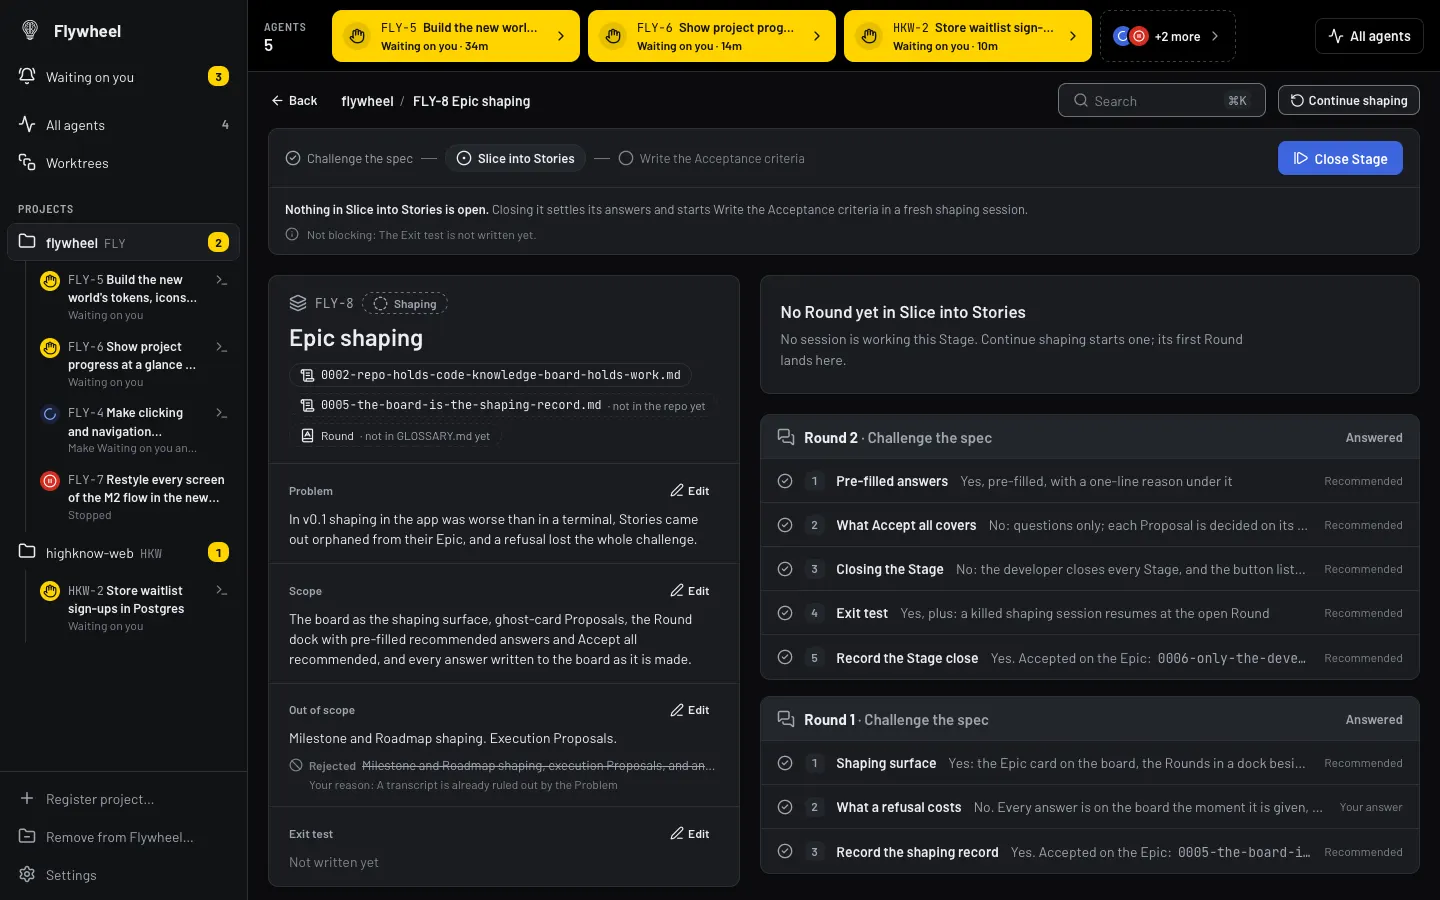
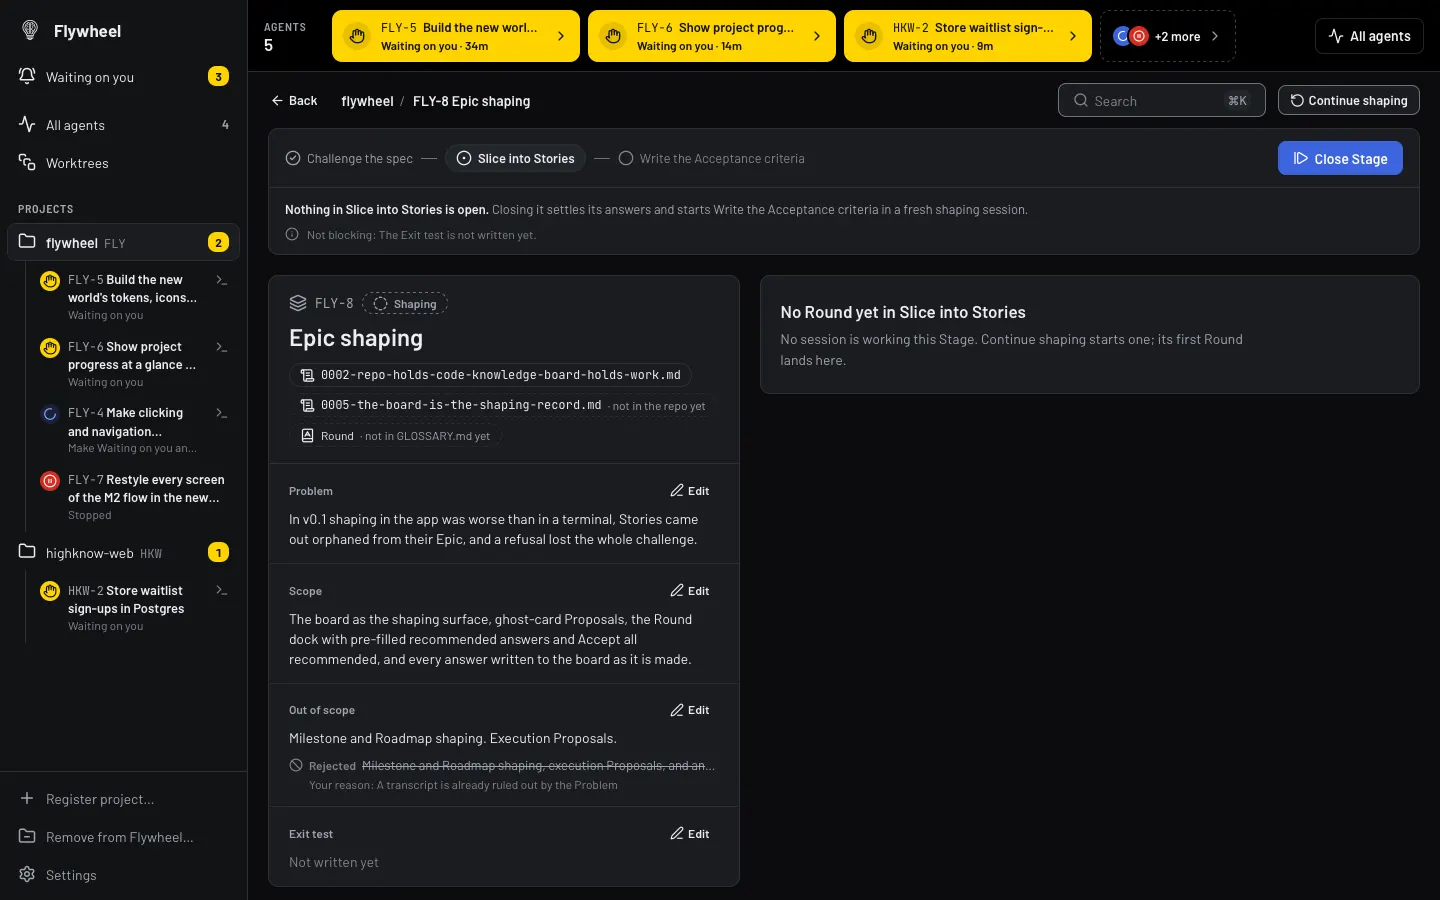
fix: the finish review's findings on the Story columns: brackets' feet reach the columns and their labels sit over the Story that waits, buttons in the heading say what is past either edge and scroll there, the first pending Proposal scrolled into view, the amended title kept whole, and a move names

diff --git a/packages/desktop/src/shaping/StoryColumns.tsx b/packages/desktop/src/shaping/StoryColumns.tsx
@@ -17,9 +17,9 @@
  * rejected spec change. A Dropped Story leaves the order. The columns sit on the floor rather than inside a card,
  * since each is a card of its own.
  */
-import { useId, useRef, useState, type FormEvent, type KeyboardEvent } from "react";
+import { useEffect, useId, useRef, useState, type FormEvent, type KeyboardEvent, type RefObject } from "react";
 import { useQueryClient } from "@tanstack/react-query";
-import { ArrowDown, ArrowRightLeft, Ban, Check, CircleDashed, CircleSlash, Columns3, PenLine, X } from "lucide-react";
+import { ArrowDown, ArrowRightLeft, Ban, Check, ChevronLeft, ChevronRight, CircleDashed, CircleSlash, Columns3, PenLine, X } from "lucide-react";
 import { proposalAccept, proposalAmend, proposalReject, type ProposalDto, type StoryDto } from "../adapters/tauri";
 import { StateBadge } from "../components/StateBadge";
 import { Button } from "@/components/ui/button";
@@ -184,6 +184,7 @@ export function StoryColumns({ stories, proposals, queryKey, className }: StoryC
                 .filter(Boolean)
                 .join(" · ")}
         </span>
+        {columns.length > 0 && <OverflowChips regionRef={regionRef} watch={columns.map((c) => c.id).join()} />}
       </header>
 
       {columns.length === 0 ? (
@@ -192,46 +193,52 @@ export function StoryColumns({ stories, proposals, queryKey, className }: StoryC
           accept, amend or reject.
         </p>
       ) : (
-        <div
-          ref={regionRef}
-          role="region"
-          aria-labelledby={headingId}
-          tabIndex={-1}
-          className="-mx-1 min-w-0 overflow-x-auto px-1 pt-1 pb-3 outline-none"
-        >
-          <div className="flex w-max flex-col gap-1.5">
-            {constraints.length > 0 && (
-              <ul aria-label="Runs-after constraints" className="m-0 grid list-none gap-x-3 gap-y-1 p-0" style={grid}>
-                {constraints.map((c) => (
-                  <Bracket key={c.key} constraint={c} />
-                ))}
-              </ul>
-            )}
-            <ol aria-label="Stories in execution order" className="m-0 grid list-none items-start gap-x-3 p-0" style={grid}>
-              {columns.map((column, index) =>
-                column.kind === "story" ? (
-                  <StoryColumn
-                    key={column.id}
-                    number={index + 1}
-                    story={column.story}
-                    columns={columns}
-                    proposals={pending.filter((p) => p.targetId === column.id && (p.verb === "reorder" || p.verb === "retire"))}
-                    queryKey={queryKey}
-                    onSettled={settle}
-                  />
-                ) : (
-                  <GhostColumn
-                    key={column.id}
-                    number={index + 1}
-                    proposal={column.proposal}
-                    draft={column.draft}
-                    runsAfter={constraints.find((c) => c.key === column.id)?.fromName ?? null}
-                    queryKey={queryKey}
-                    onSettled={settle}
-                  />
-                ),
+        <div className="relative min-w-0">
+          <div
+            ref={regionRef}
+            role="region"
+            aria-labelledby={headingId}
+            tabIndex={-1}
+            className="-mx-1 min-w-0 overflow-x-auto px-1 pt-1 pb-3 outline-none"
+          >
+            <div className="flex w-max flex-col">
+              {constraints.length > 0 && (
+                <ul
+                  aria-label="Runs-after constraints"
+                  className="relative m-0 list-none p-0"
+                  style={{ height: constraints.length * BRACKET_ROW + BRACKET_FOOT }}
+                >
+                  {constraints.map((c, row) => (
+                    <Bracket key={c.key} constraint={c} row={row} />
+                  ))}
+                </ul>
               )}
-            </ol>
+              <ol aria-label="Stories in execution order" className="m-0 grid list-none items-start gap-x-3 p-0" style={grid}>
+                {columns.map((column, index) =>
+                  column.kind === "story" ? (
+                    <StoryColumn
+                      key={column.id}
+                      number={index + 1}
+                      story={column.story}
+                      columns={columns}
+                      proposals={pending.filter((p) => p.targetId === column.id && (p.verb === "reorder" || p.verb === "retire"))}
+                      queryKey={queryKey}
+                      onSettled={settle}
+                    />
+                  ) : (
+                    <GhostColumn
+                      key={column.id}
+                      number={index + 1}
+                      proposal={column.proposal}
+                      draft={column.draft}
+                      runsAfter={constraints.find((c) => c.key === column.id)?.fromName ?? null}
+                      queryKey={queryKey}
+                      onSettled={settle}
+                    />
+                  ),
+                )}
+              </ol>
+            </div>
           </div>
         </div>
       )}
@@ -247,26 +254,56 @@ export function StoryColumns({ stories, proposals, queryKey, className }: StoryC
   );
 }
 
-/** A runs-after bracket: from the centre of the column it runs after to the centre of the one that waits. */
-function Bracket({ constraint }: { constraint: Constraint }) {
+/** One bracket's row above the columns: its label, then its line. */
+const BRACKET_ROW = 30;
+/** How far the lowest bracket's feet reach down to the columns. */
+const BRACKET_FOOT = 8;
+/** Where a column's centre sits, from the left edge of the first column. */
+const footX = (column: number) => `calc(${column - 1} * (${COLUMN_WIDTH} + 0.75rem) + ${COLUMN_WIDTH} / 2)`;
+
+/**
+ * A runs-after bracket: a line from the centre of the column it runs after to the centre of the one that waits,
+ * its feet running down to the tops of both columns and an arrow on the one that waits. The label sits over the
+ * arrow's end, so it reads as a sentence about the Story under it; it knocks out the feet of the brackets above.
+ */
+function Bracket({ constraint, row }: { constraint: Constraint; row: number }) {
   const { from, to, provisional } = constraint;
   const [left, right] = from < to ? [from, to] : [to, from];
   const arrowOnRight = to > from;
-  const half = `calc(${COLUMN_WIDTH} / 2)`;
   return (
     <li
       data-from={from}
       data-to={to}
       data-provisional={String(provisional)}
-      className="relative flex h-10 min-w-0 flex-col"
-      style={{ gridColumn: `${left} / ${right + 1}` }}
+      className="absolute bottom-0 min-w-0"
+      style={{ top: row * BRACKET_ROW, left: footX(left), width: `calc(${right - left} * (${COLUMN_WIDTH} + 0.75rem))` }}
       title={constraint.reason ? `${constraint.sentence}: ${constraint.reason}` : constraint.sentence}
     >
       <span className="sr-only">
         {constraint.sentence}
         {constraint.reason ? `: ${constraint.reason}` : ""}
       </span>
-      <span aria-hidden="true" className="flex min-w-0 flex-1 items-center justify-center gap-1.5 px-2 text-meta">
+      <span
+        aria-hidden="true"
+        className={cn(
+          "absolute bottom-0 rounded-t-sm border border-b-0",
+          provisional ? "border-dashed border-primary" : "border-input",
+        )}
+        style={{ top: 21, left: 0, right: 0 }}
+      >
+        <ArrowDown
+          size={12}
+          strokeWidth={2.5}
+          className={cn("absolute -bottom-0.5", provisional ? "text-running" : "text-muted-foreground", arrowOnRight ? "-right-[6.5px]" : "-left-[6.5px]")}
+        />
+      </span>
+      <span
+        aria-hidden="true"
+        className={cn(
+          "absolute top-0 z-10 flex h-5 max-w-[calc(100%+8rem)] min-w-0 items-center gap-1.5 bg-background px-1 text-meta",
+          arrowOnRight ? "right-0 translate-x-2" : "left-0 -translate-x-2",
+        )}
+      >
         <span className={cn("flex shrink-0 items-center gap-1.5", provisional ? "text-running" : "text-foreground")}>
           <End end={constraint.ends[0]} />
           <span className="font-semibold">runs after</span>
@@ -275,28 +312,88 @@ function Bracket({ constraint }: { constraint: Constraint }) {
         </span>
         {constraint.reason && (
           <>
-            <span aria-hidden="true" className="shrink-0 text-subtle-foreground">
-              ·
-            </span>
+            <span className="shrink-0 text-subtle-foreground">·</span>
             <span className="min-w-0 truncate text-muted-foreground">{constraint.reason}</span>
           </>
         )}
       </span>
-      <span
-        aria-hidden="true"
-        className={cn(
-          "relative h-2.5 shrink-0 rounded-t-sm border border-b-0",
-          provisional ? "border-dashed border-primary" : "border-input",
-        )}
-        style={{ marginInline: half }}
-      >
-        <ArrowDown
-          size={12}
-          strokeWidth={2.5}
-          className={cn("absolute -bottom-2 bg-background", provisional ? "text-running" : "text-muted-foreground", arrowOnRight ? "-right-[6.5px]" : "-left-[6.5px]")}
-        />
-      </span>
     </li>
+  );
+}
+
+/**
+ * The columns past either edge of the strip, named with what in them waits on a decision, as two buttons in the
+ * heading that scroll the strip that way. Once the strip mounts, a pending Proposal past the right edge is scrolled into view.
+ */
+function OverflowChips({ regionRef, watch }: { regionRef: RefObject<HTMLDivElement | null>; watch: string }) {
+  const [edges, setEdges] = useState({ before: 0, after: 0, pendingBefore: 0, pendingAfter: 0 });
+  const scrolledOnce = useRef(false);
+
+  useEffect(() => {
+    const region = regionRef.current;
+    if (!region) return;
+    const measure = () => {
+      const box = region.getBoundingClientRect();
+      const next = { before: 0, after: 0, pendingBefore: 0, pendingAfter: 0 };
+      for (const li of Array.from(region.querySelectorAll<HTMLElement>("ol > li"))) {
+        const r = li.getBoundingClientRect();
+        const pending = li.dataset.state === "pending" || li.querySelector('[data-state="pending"]') !== null;
+        if (r.right > box.right + 1) {
+          next.after += 1;
+          if (pending) next.pendingAfter += 1;
+        } else if (r.left < box.left - 1) {
+          next.before += 1;
+          if (pending) next.pendingBefore += 1;
+        }
+      }
+      setEdges((prev) =>
+        prev.before === next.before && prev.after === next.after && prev.pendingBefore === next.pendingBefore && prev.pendingAfter === next.pendingAfter
+          ? prev
+          : next,
+      );
+    };
+    if (!scrolledOnce.current) {
+      scrolledOnce.current = true;
+      const first = region.querySelector<HTMLElement>('ol > li[data-state="pending"], ol > li [data-state="pending"]');
+      if (first) {
+        const overshoot = first.getBoundingClientRect().right - region.getBoundingClientRect().right;
+        if (overshoot > 0) region.scrollLeft += overshoot + 24;
+      }
+    }
+    measure();
+    region.addEventListener("scroll", measure, { passive: true });
+    const observer = typeof ResizeObserver === "undefined" ? null : new ResizeObserver(measure);
+    observer?.observe(region);
+    return () => {
+      region.removeEventListener("scroll", measure);
+      observer?.disconnect();
+    };
+  }, [regionRef, watch]);
+
+  const scroll = (direction: 1 | -1) => {
+    const region = regionRef.current;
+    if (!region) return;
+    const reduce = window.matchMedia?.("(prefers-reduced-motion: reduce)").matches;
+    region.scrollBy({ left: direction * region.clientWidth * 0.8, behavior: reduce ? "auto" : "smooth" });
+  };
+  const words = (count: number, pendingCount: number, side: string) =>
+    [`${count} ${side}`, pendingCount > 0 ? `${pendingCount} to decide` : null].filter(Boolean).join(" · ");
+
+  return (
+    <>
+      {(edges.before > 0 || edges.after > 0) && (
+        <span className="ml-auto flex items-center gap-2 self-center">
+          <Button variant="outline" size="sm" disabled={edges.before === 0} onClick={() => scroll(-1)} aria-label={`Scroll to the earlier Stories: ${words(edges.before, edges.pendingBefore, "earlier")}`}>
+            <ChevronLeft aria-hidden="true" />
+            <span className="tabular-nums">{words(edges.before, edges.pendingBefore, "earlier")}</span>
+          </Button>
+          <Button variant="outline" size="sm" disabled={edges.after === 0} onClick={() => scroll(1)} aria-label={`Scroll to the later Stories: ${words(edges.after, edges.pendingAfter, "more")}`}>
+            <span className="tabular-nums">{words(edges.after, edges.pendingAfter, "more")}</span>
+            <ChevronRight aria-hidden="true" />
+          </Button>
+        </span>
+      )}
+    </>
   );
 }
 
@@ -438,13 +535,28 @@ function StoryColumn({
 }
 
 /** Where a move would land the Story, among the other columns as they stand. */
-function landing(proposal: ProposalDto, story: StoryDto, columns: Column[]) {
+function Landing({ proposal, story, columns }: { proposal: ProposalDto; story: StoryDto; columns: Column[] }) {
   const rank = text((proposal.payload as Record<string, unknown> | null)?.rank);
-  if (!rank) return "Moves elsewhere in the order";
+  if (!rank) return <>Moves elsewhere in the order</>;
   const before = columns.filter((c) => c.id !== story.id && byRank(c, { rank, id: story.id }) < 0);
   const prev = before[before.length - 1];
-  if (!prev) return "Moves to the front of the order";
-  return prev.kind === "story" ? `Moves after ${prev.story.key} ${prev.story.title}` : `Moves after the proposed “${prev.draft.title}”`;
+  if (!prev) return <>Moves to the front of the order</>;
+  // Named as the columns name it: a Story by its key, a pending one by its dashed order chip.
+  const number = columns.indexOf(prev) + 1;
+  const title = prev.kind === "story" ? prev.story.title : prev.draft.title;
+  return (
+    <span className="flex min-w-0 items-center gap-1.5">
+      <span className="shrink-0">Moves after</span>
+      {prev.kind === "story" ? (
+        <span className="shrink-0 font-mono text-small">{prev.story.key}</span>
+      ) : (
+        <NumberChip number={number} ghost />
+      )}
+      <span className="min-w-0 truncate" title={title}>
+        {title}
+      </span>
+    </span>
+  );
 }
 
 /** A pending move or retirement at the foot of its Story's column. Accept or Reject; nothing to amend. */
@@ -478,9 +590,9 @@ function OrderPlate({
         <Icon aria-hidden="true" className="size-3.5 shrink-0" />
         Proposed {noun}
       </span>
-      <p className="m-0 text-small break-words text-foreground">
-        {move ? landing(proposal, story, columns) : "Drops it from the Epic"}
-      </p>
+      <div className="m-0 min-w-0 text-small break-words text-foreground">
+        {move ? <Landing proposal={proposal} story={story} columns={columns} /> : "Drops it from the Epic"}
+      </div>
       {proposal.rationale && <p className="m-0 text-small break-words text-muted-foreground">Why: {proposal.rationale}</p>}
       {rejecting ? (
         <RejectForm
@@ -604,7 +716,21 @@ function GhostColumn({
           <label htmlFor={titleId} className="text-meta font-semibold text-muted-foreground">
             Title
           </label>
-          <Input id={titleId} value={title} maxLength={MAX_TITLE_LEN} autoFocus disabled={busy} onChange={(e) => setTitle(e.target.value)} onKeyDown={onEditKey} />
+          {/* The whole title in sight while it is edited: it grows with its words, and Enter never breaks it. */}
+          <Textarea
+            id={titleId}
+            rows={1}
+            value={title}
+            maxLength={MAX_TITLE_LEN}
+            autoFocus
+            disabled={busy}
+            className="min-h-0 font-semibold"
+            onChange={(e) => setTitle(e.target.value.replace(/\n/g, " "))}
+            onKeyDown={(e) => {
+              if (e.key === "Enter" && !(e.metaKey || e.ctrlKey)) e.preventDefault();
+              onEditKey(e);
+            }}
+          />
           <label htmlFor={descriptionId} className="text-meta font-semibold text-muted-foreground">
             Description
           </label>

diff --git a/packages/desktop/src/shaping/__tests__/story-columns.test.tsx b/packages/desktop/src/shaping/__tests__/story-columns.test.tsx
@@ -185,7 +185,7 @@ describe("StoryColumns", () => {
     );
     const parser = screen.getByRole("listitem", { name: "1. FLY-11 Parser" });
     const move = within(parser).getByRole("group", { name: "Proposed move of FLY-11" });
-    expect(move).toHaveTextContent("Moves after FLY-12 Feed row");
+    expect(move).toHaveTextContent(/Moves after\s*FLY-12\s*Feed row/);
     expect(move).toHaveTextContent("Needs the row first");
     const feed = screen.getByRole("listitem", { name: "2. FLY-12 Feed row" });
     const retire = within(feed).getByRole("group", { name: "Proposed retirement of FLY-12" });

diff --git a/DESIGN.md b/DESIGN.md
@@ -379,7 +379,7 @@ An ADR offered inside the Round (`QuestionCard.tsx`'s ADR variant, #129) reads l
 The Epic card's ADR and glossary chips (#129) sit in its title block under the Stage line, only when there is one: outline badges at meta size (the term and the file name alike), `scroll-text` and the ADR's file name in code face, or `book-a` and the glossary term. An ADR linked to the Epic has a solid edge. One accepted on the Epic that no Story has written yet has a dashed edge, the ghost's provisional mark, and "· not in the repo yet" (or "· not in GLOSSARY.md yet") in secondary ink. The full path is in the tooltip and in the chip's accessible name.
 
 ### Story Columns
-Slicing an Epic (`shaping/StoryColumns.tsx`, #127) hangs its Stories off the Epic card: under the Epic card and the current Round, across both columns, before the earlier Rounds, shown once the Epic has a Story or a Story Proposal or its Slice Stage has opened. A section heading on the floor (`columns-3`, "Stories" at section size, then "3 Stories · 2 proposed · in execution order, left to right" in meta ink, tabular) heads a row of 17.5rem columns that scrolls sideways at narrow widths; the columns sit on the floor, never inside a card, because each is a card of its own. A Story column is a card: the ink order chip (the question card's number chip), the key in code face, the state pill at meta size on the right, the title at row size and the description in secondary ink, cut at six lines with the whole text in the tooltip. A Dropped Story leaves the order. A pending New Story is a ghost column standing where it would land: the ghost field's dashed primary edge on the running tint, a dashed order chip, `circle-dashed` "Proposed Story" in running ink, its title and its whole description in ink, then Accept (outline), Amend (ghost) and Reject (ghost) on one line. Amend opens its title, description and, when it runs after another, "Why it runs after …" in place, with Accept edit, Cancel and the ⌘↩ hint; its place and what it runs after are not editable. A pending move or retirement sits at the foot of its Story's column as a dashed plate (`arrow-right-left` "Proposed move" or `circle-slash` "Proposed retirement" in running ink), saying where the Story would land ("Moves after FLY-12 Feed row") or that it would be dropped, the agent's "Why:" line, then Accept (outline) and Reject (ghost). A runs-after constraint is a bracket above the columns, its feet on the centres of the two columns it links and a small arrow on the Story that waits: its two ends named as the columns name them (the key in code face, or a pending Story's dashed order chip), "runs after" semibold, then the one-line reason in secondary ink. A bracket is solid in control-edge grey between two Stories, and dashed primary with running ink when either end is still a Proposal. The longest bracket sits highest, so the short ones stay nearest the columns they join. The constraint never blocks anything; a Story placed before the one it runs after says "yet comes first" and nothing more. Rejected Story Proposals shrink under the columns to the rejected spec change's two lines: `ban`, "Rejected", the title (or "Move FLY-12") struck through, then "Your reason: …".
+Slicing an Epic (`shaping/StoryColumns.tsx`, #127) hangs its Stories off the Epic card: under the Epic card and the current Round, across both columns, before the earlier Rounds, shown once the Epic has a Story or a Story Proposal or its Slice Stage has opened. A section heading on the floor (`columns-3`, "Stories" at section size, then "3 Stories · 2 proposed · in execution order, left to right" in meta ink, tabular) heads a row of 17.5rem columns that scrolls sideways when it is wider than the content. While any column is past an edge, two outline buttons at the heading's end say so and scroll that way ("‹ 1 earlier", "2 more · 2 to decide ›"), and on opening the strip scrolls the first pending Proposal into view; the columns sit on the floor, never inside a card, because each is a card of its own. A Story column is a card: the ink order chip (the question card's number chip), the key in code face, the state pill at meta size on the right, the title at row size and the description in secondary ink, cut at six lines with the whole text in the tooltip. A Dropped Story leaves the order. A pending New Story is a ghost column standing where it would land: the ghost field's dashed primary edge on the running tint, a dashed order chip, `circle-dashed` "Proposed Story" in running ink, its title and its whole description in ink, then Accept (outline), Amend (ghost) and Reject (ghost) on one line. Amend opens its title (a field that grows to the whole title, Enter never breaking it), description and, when it runs after another, "Why it runs after …" in place, with Accept edit, Cancel and the ⌘↩ hint; its place and what it runs after are not editable. A pending move or retirement sits at the foot of its Story's column as a dashed plate (`arrow-right-left` "Proposed move" or `circle-slash` "Proposed retirement" in running ink), saying where the Story would land, naming that place as the columns do ("Moves after FLY-12 Feed row", or a pending Story's dashed order chip and its title on one line) or that it would be dropped, the agent's "Why:" line, then Accept (outline) and Reject (ghost). A runs-after constraint is a bracket above the columns, its feet running down to the centres of the two columns it links and a small arrow on the Story that waits. Its label sits over the arrow's end, so it reads as a sentence about the Story under it, on a floor-coloured knockout that the feet of the brackets above pass behind: its two ends named as the columns name them (the key in code face, or a pending Story's dashed order chip), "runs after" semibold, then the one-line reason in secondary ink. A bracket is solid in control-edge grey between two Stories, and dashed primary with running ink when either end is still a Proposal. The longest bracket sits highest, so the short ones stay nearest the columns they join. The constraint never blocks anything; a Story placed before the one it runs after says "yet comes first" and nothing more. Rejected Story Proposals shrink under the columns to the rejected spec change's two lines: `ban`, "Rejected", the title (or "Move FLY-12") struck through, then "Your reason: …".
 
 ### Feed Rows
 A tool call is one line (`session/FeedRow.tsx`, worded by `session/toolVerbs.ts`): the disclosure chevron, the kind's Lucide icon, a plain verb in a 108px semibold column (Read, Edited, Wrote, Ran, Searched; board tools by their meaning: Added Task, Finished Task, Ran Checks, Handed off, Posted Round, and Resumed Round n for `round_wait`, each of the two reading "Waiting on your answers" while it is held), what it acted on (code face for paths and commands, reading face for Task titles), then the metrics column on the right in meta ink, tabular: lines, `+added −removed`, "done" in ink for a clean command or "exit n" for a failed one, Check results, and the duration. A failed command is neutral ink beside `circle-x`; only a failed Check is red. Search targets are quoted, with the place searched ("“Dropped” in GLOSSARY.md"); a tool Flywheel has no verb for reads "Used" and its name in words. A call in flight reads in the progressive ("Running"), the loader leading its clock in running ink. No raw `mcp__` tool name is printed anywhere outside View raw.
